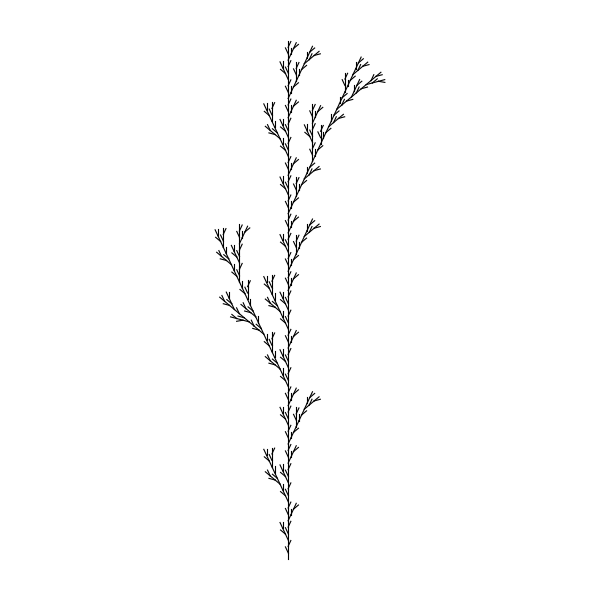
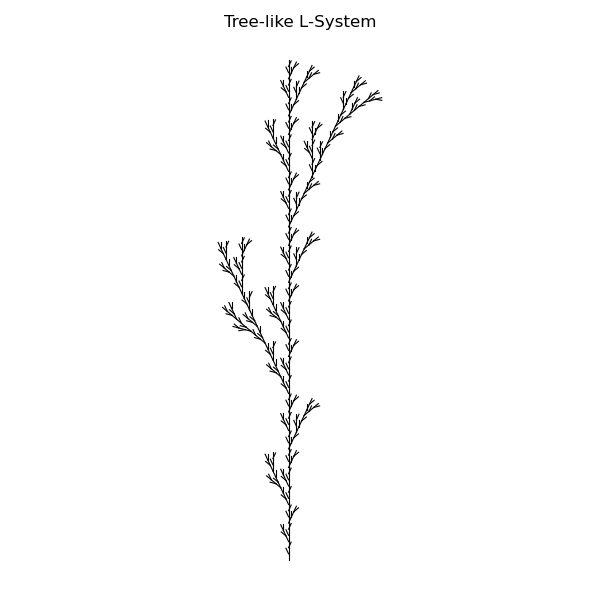
Refactor structure, Add optimization based texture synthesis

Changed region(s): [[0.36, 0.03, 0.66, 0.93]]

diff --git a/experiments/initial_exploration/05_classic_optimization_based.py b/experiments/initial_exploration/05_classic_optimization_based.py
@@ -1,0 +1,88 @@
+import numpy as np
+import matplotlib.pyplot as plt
+from scipy.ndimage import gaussian_filter
+
+# Utility: Histogram Matching
+def match_histogram(source, template):
+    """
+    Adjust pixel values of source image so that its histogram
+    matches the template image histogram.
+    """
+    src = source.ravel()
+    tmpl = template.ravel()
+
+    s_values, s_indices, s_counts = np.unique(src, return_inverse=True, return_counts=True)
+    t_values, t_counts = np.unique(tmpl, return_counts=True)
+
+    s_quantiles = np.cumsum(s_counts).astype(np.float64)
+    s_quantiles /= s_quantiles[-1]
+
+    t_quantiles = np.cumsum(t_counts).astype(np.float64)
+    t_quantiles /= t_quantiles[-1]
+
+    interp_t_values = np.interp(s_quantiles, t_quantiles, t_values)
+
+    return interp_t_values[s_indices].reshape(source.shape)
+
+
+# Optimization-Based Texture Synthesis
+
+def synthesize_texture(target, iterations=50, smooth_sigma=1.0):
+    """
+    Generate a new texture by matching statistics of target texture.
+    """
+
+    # Start from random noise
+    generated = np.random.rand(*target.shape)
+
+    for i in range(iterations):
+
+        # 1. Match histogram
+        generated = match_histogram(generated, target)
+
+        # 2. Match mean & std
+        gen_mean, gen_std = generated.mean(), generated.std()
+        tgt_mean, tgt_std = target.mean(), target.std()
+
+        generated = (generated - gen_mean) / (gen_std + 1e-8)
+        generated = generated * tgt_std + tgt_mean
+
+        # 3. Smoothness constraint
+        generated = gaussian_filter(generated, sigma=smooth_sigma)
+
+    return generated
+
+
+# Example Target Texture
+def create_target_texture(size=128):
+    x = np.arange(size)
+    y = np.arange(size)
+    X, Y = np.meshgrid(x, y)
+
+    texture = np.sin(X * 0.15) * np.cos(Y * 0.1)
+    texture = (texture - texture.min()) / (texture.max() - texture.min())
+
+    return texture
+
+
+# Run Example
+target = create_target_texture(128)
+
+generated = synthesize_texture(target, iterations=50, smooth_sigma=1.0)
+
+# Normalize for display
+generated = (generated - generated.min()) / (generated.max() - generated.min())
+
+plt.figure(figsize=(10, 4))
+
+plt.subplot(1, 2, 1)
+plt.title("Target Texture")
+plt.imshow(target, cmap='gray')
+plt.axis('off')
+
+plt.subplot(1, 2, 2)
+plt.title("Optimization-Based Synthesis (50 iters)")
+plt.imshow(generated, cmap='gray')
+plt.axis('off')
+
+plt.show()

diff --git a/experiments/initial_exploration/04_visual_example_lsystems.py b/experiments/initial_exploration/04_visual_example_lsystems.py
@@ -52,6 +52,7 @@ def plot_segments(starts: np.ndarray, ends: np.ndarray, linewidth: float = 1.0):
         ax.plot([x0, x1], [y0, y1], color="black", linewidth=linewidth)
 
     ax.set_aspect("equal", adjustable="box")
+    plt.title("Tree-like L-System")
     ax.axis("off")
     plt.tight_layout()
     plt.show()

diff --git a/experiments/initial_exploration/README.md b/experiments/initial_exploration/README.md
@@ -40,7 +40,7 @@ The pattern emerges from a mathematical wave function.
 
 ## Rule-Based Generation
 
-> Content is generated by applying explicit rules or logical decisions
+> Content is generated by applying explicit rules or logical decisions.
 
 Instead of computing values from formulas, we define symbolic rules. These rules describe structure, not just numbers.
 
@@ -74,12 +74,42 @@ F → F[+F]F[-F]F
 
 This is a rewriting rule. Each iteration replaces symbols based on rules. That is rule-basd generation.
 
+## Optimization-Based Generation
+
+> The texture is generated by solving an optimization problem.
+
+Unlike procedural or rule-based methods, optimization based texture synthesis does not define a direct formula or symbolic rules. Instead, the texture emrges as the solution of a constrained optimization process. The image itsel fbecomes the optimization variable.
+
+A common classical approach is matching statistical properties of a target texture. The generated image is iteratively modified so that its statistics (e.g. histogramm, mean, variance) approximate those of the target image.
+
+### Simple Idea - Core Idea
+
+We start with random noise, then iteratively enforce statistical constraints and finally minimize deviation between generated and target statistics. The final texture emerges as the solution of this optimization progress.
+
+### Visual Example: Histogram Matching
+
+The crucial part that makes this optimization-based is the iterative refinement loop:
+
+```py
+for i in range(iterations):
+
+    # Match histogram to target
+    generated = match_histogram(generated, target)
+
+    # Enforce smoothness constraint
+    generated = gaussian_filter(generated, sigma=smooth_sigma)
+```
+
+![Optimization Based Example: 25 iterations](/assets/experiments/initial_exploration/optimization_based_25iters.png)
+
+![Optimization Based Example: 50 iterations](/assets/experiments/initial_exploration/optimization_based_50iters.png)
+
 ## Core Differences
 
-| Procedural             | Rule-Based                    |
-| ---------------------- | ----------------------------- |
-| Mathematical functions | Logical / symbolic rules      |
-| Continuous structures  | Discrete structural decisions |
-| Often numeric          | Often symbolic                |
-| Example: Perlin noise  | Example: L-systems            |
-| Smooth patterns        | Structured patterns           |
+| Aspect               | Procedural                        | Rule-Based                         | Optimization-Based                                   |
+| -------------------- | --------------------------------- | ---------------------------------- | ---------------------------------------------------- |
+| Generation Principle | Closed-form mathematical function | Symbolic rewriting / logical rules | Solve constrained optimization problem               |
+| Control Mechanism    | Parameters of formula             | Explicit structural rules          | Statistical or energy-based constraints              |
+| Structure Origin     | Directly defined by formula       | Constructed via rule application   | Emerges through iterative minimization               |
+| Computation Style    | Single-pass evaluation            | Single-pass evaluation             | Iterative refinement process                         |
+| Typical Output       | Smooth, continuous patterns       | Structured, discrete arrangements  | Statistically consistent, constraint-driven textures |
